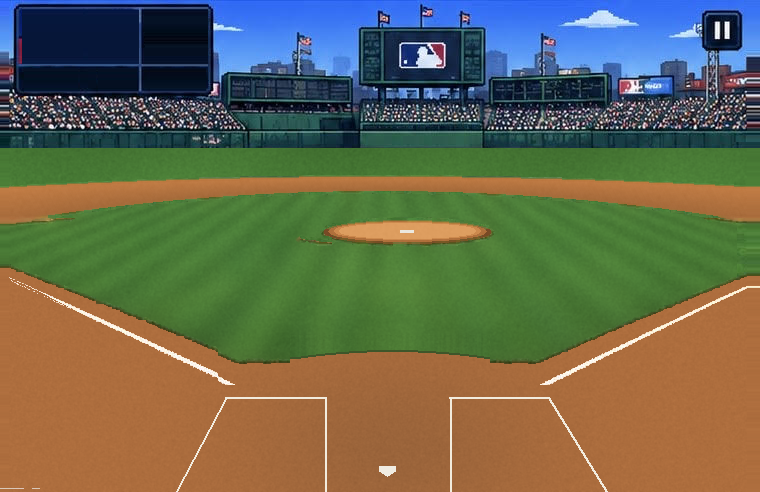
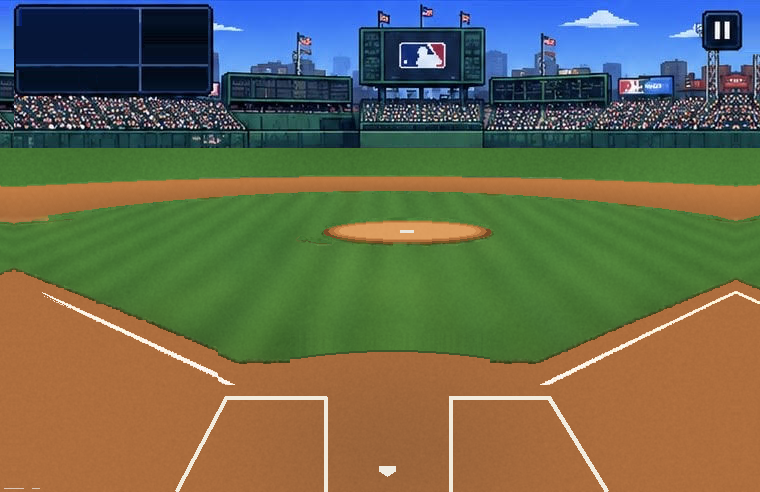
At-bat view cleanup: 4 infielders + outfielders back, edge/stand glitches, infield dirt strays, mound streak, scoreboard stripe, thicker box chalk

diff --git a/index.html b/index.html
@@ -214,7 +214,7 @@ function look(){
 }
 
 // ── season-long state ──────────────────────────────────────────────────────
-const BUILD = '11-03a';
+const BUILD = '11-03b';
 const SAVE = 'retrobaseball.v1';
 let G = null;
 
@@ -1007,7 +1007,7 @@ function drawField(park, t){
 
 // the seven fielders standing out there, in perspective
 // where the target picture stands each fielder, in its own pixels (x, feet y, height)
-const PLATE_SPOT = { '1B':[724, 212, 41], '2B':[630, 186, 30], 'SS':[235, 186, 30], '3B':[65, 212, 41], 'LF':[112, 187, 28], 'CF':[413, 156, 17], 'RF':[494, 181, 27] };
+const PLATE_SPOT = { '1B':[724, 212, 41], '2B':[630, 186, 30], 'SS':[235, 186, 30], '3B':[65, 212, 41], 'LF':[92, 163, 20], 'CF':[413, 156, 17], 'RF':[668, 163, 20] };   // four infielders on the dirt; the outfielders stand back on the grass
 function drawFielders(team){
   if (plateOK()){
     FIELDERS.forEach(([d, lat, pos], i) => { const q = PLATE_SPOT[pos]; drawFielderSprite(tx(q[0]), ty(q[1]), pos, false, q[2]); });
@@ -2286,7 +2286,7 @@ function gxPlayHud(B){
 
 // ── people stamped onto the painted field: each one is a 3D player baked into a small canvas at the picture's own pixel size ──
 const PIXK = .5;                                                   // bake pixels per target pixel (so one art pixel = 2 target pixels)
-const PLATE = new Image(); PLATE.onload = () => imgReady++; PLATE.src = 'assets/fields/plate_clean.png?b=11-02i';
+const PLATE = new Image(); PLATE.onload = () => imgReady++; PLATE.src = 'assets/fields/plate_clean.png?b=11-03b';
 const IDLE = new Image(); IDLE.onload = () => imgReady++; IDLE.src = 'assets/fields/idle.png';        // the target picture itself, with the ball, its dotted path and the pill taken out
 const IDLE_BOX = { bat:[214,236,344,452], cat:[316,350,446,492], pit:[388,168,436,236] };
 const plateOK = () => ready(PLATE) && ready(IDLE) && !window.__noPlate && window.GL3D && GL3D.bakeInit && GL3D.bakeInit();

diff --git a/tools/polish_plate.py b/tools/polish_plate.py
@@ -1,0 +1,70 @@
+"""Last pass over plate_clean.png (run after build_plate.py and finish_plate.py): removes the remaining glitches.
+ - leftover dirt tongues in the infield lawn near third and first base, and the brown streak left of the mound
+ - dotted chalk fragments at the start of the left foul line
+ - the picture's edge columns (stretched debris along the left and right edges: stands, pause button side, beside first base)
+ - the baked red/blue team stripe inside the scoreboard panel that peeks out from under the game's own scoreboard
+ - thicker batter's-box chalk (same weight as the runners' white path)
+"""
+import numpy as np
+from PIL import Image, ImageDraw
+from scipy import ndimage as ndi
+
+a = np.array(Image.open('assets/fields/plate_clean.png').convert('RGB')).astype(float)
+H, W, _ = a.shape
+r, g, b = a[..., 0], a[..., 1], a[..., 2]
+
+# 1) dirt that wandered into the infield lawn: for each column, the main warning track is the big dirt blob; any dirt-coloured pixels just under it are strays
+dirt = (r > g + 18) & (r > 120)
+lab, n = ndi.label(dirt[150:262])
+sizes = ndi.sum(np.ones_like(lab), lab, range(1, n + 1))
+main = lab == (1 + int(np.argmax(sizes)))
+cols = list(range(8, 110)) + list(range(660, 748))
+yb = {}
+for x in cols:
+    ys = np.where(main[:, x])[0]
+    yb[x] = 150 + ys.max() if len(ys) else None
+for seg in (list(range(8, 110)), list(range(660, 748))):
+    vals = np.array([yb[x] if yb[x] is not None else np.nan for x in seg], float)
+    sm = ndi.median_filter(np.nan_to_num(vals, nan=np.nanmedian(vals)), size=21, mode='nearest')      # the track's lower edge, with the tongues sanded off
+    for x, y0, ys_ in zip(seg, vals, sm):
+        if np.isnan(y0): continue
+        for y in range(int(round(ys_)) + 1, int(y0) + 16):
+            if y < H - 20 and a[y, x, 0] > a[y, x, 1] - 14 and a[y + 18, x, 1] > a[y + 18, x, 0] + 8:   # brownish, with clean lawn below it
+                a[y, x] = a[y + 18, x]
+# the pale tan lip at the track's lower edge near third base: repaint with the track's own colour from higher up the same column
+for x in range(20, 58):
+    for y in range(212, 227):
+        rr, gg, bb = a[y, x]
+        if rr > gg + 8 and bb > 66 and gg > 120 and rr > 170 and (rr - bb) < 150:
+            a[y, x] = a[203, x]
+# the brown streak left of the mound: replace with lawn from just to its left
+for y in range(232, 250):
+    for x in range(286, 340):
+        rr, gg, bb = a[y, x]
+        if rr > gg - 12 and not (x > 322 and 226 <= y <= 244 and rr > gg + 20):         # leave the mound's own rim alone
+            a[y, x] = a[y, x - 46]
+
+# 2) dotted chalk fragments before the left foul line begins
+for y in range(262, 300):
+    for x in range(0, 52):
+        if a[y, x, 0] > 200 and a[y, x, 1] > 190 and a[y, x, 2] > 160 and (x < 42 or y < 285):
+            a[y, x] = a[y, x] * 0 + np.array([174., 110., 62.])
+
+# 3) the edge columns: the game stretches the outer few columns across wide screens, so they must be clean
+a[49:150, 0:14] = a[49:150, 232:246]                                  # left: clone clean stands and wall from beside the scoreboard
+for k in range(14): a[150:, 13 - k] = a[150:, 14 + k]                 # left, field: mirror
+for k in range(24): a[54:, 736 + k] = a[54:, 735 - k]                 # right: mirror the clean columns beside the stands and the field
+for k in range(14): a[:54, 746 + k] = a[:54, 745]                      # (up in the sky beside the pause button: just repeat the clean sky)
+
+# 4) the picture's own scoreboard panel carried a red/blue team stripe at its left edge; the game draws its own, so wipe it out
+for y in range(26, 70):
+    a[y, 16:25] = a[y, 25]
+
+# 5) batter's box chalk as thick as the runners' white path
+img = Image.fromarray(np.clip(a, 0, 255).astype(np.uint8))
+d = ImageDraw.Draw(img); CH = (242, 236, 222)
+for p, q in [((225, 397), (326, 397)), ((325, 397), (325, H)), ((226, 397), (176, H - 1)),
+             ((449, 397), (549, 397)), ((450, 397), (450, H)), ((548, 397), (606, H - 1))]:
+    d.line([p, q], fill=CH, width=4)
+img.save('assets/fields/plate_clean.png')
+print('polished')
